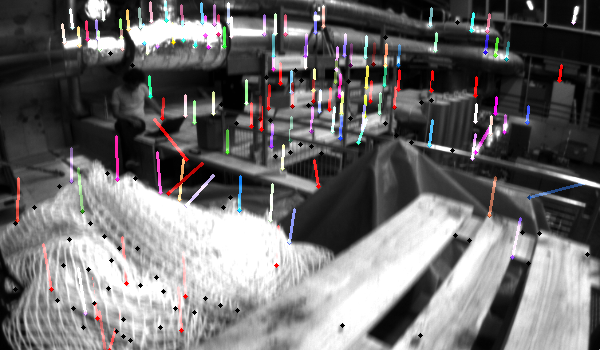
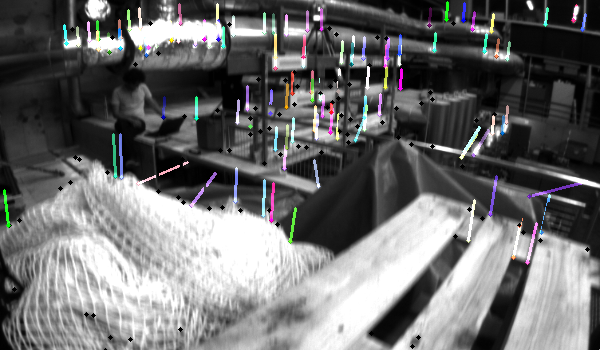
Fixed issue with no optimization

diff --git a/src/main.cpp b/src/main.cpp
@@ -21,6 +21,7 @@ using namespace std;
 using namespace gtsam;
 
 typedef std::vector<std::tuple<gtsam::Point2, int>> TrackedFeatures;
+typedef SmartProjectionPoseFactor<gtsam::Cal3_S2> SmartFactor;
 
 void initialize(NonlinearFactorGraph &graph, PreintegratedCombinedMeasurements *&preint, Values &values)
 {
@@ -151,26 +152,26 @@ void process_smart_features(
     TrackedFeatures & features_f1,
     TrackedFeatures & features_f2)
 {
-    unordered_map<int, gtsam::SmartProjectionPoseFactor<gtsam::Cal3_S2>> measurement_smart_lookup_left;
+    unordered_map<int, SmartFactor::shared_ptr> measurement_smart_lookup_left;
 
     // Sofiya: First frame's features. All features should be new
     for (int i = 0; i < features_f1.size(); i++)
     {
         // Create a smart factor for the new feature
-        noiseModel::Isotropic::shared_ptr measurement_noise = noiseModel::Isotropic::Sigma(2, SIGMA_CAMERA, true); // sigma_camera
+        noiseModel::Isotropic::shared_ptr measurement_noise = noiseModel::Isotropic::Sigma(2, 1.0, true); // sigma_camera
         gtsam::Cal3_S2 K = gtsam::Cal3_S2(FX, FY, S, CX, CY);
 
         // Note (frames): Transformation from camera frame to imu frame, i.e., pose of imu frame in camera frame
-        SmartProjectionPoseFactor<gtsam::Cal3_S2> factor = SmartProjectionPoseFactor<gtsam::Cal3_S2>(
+        SmartFactor::shared_ptr factor(new SmartFactor(
             measurement_noise,
             boost::make_shared<gtsam::Cal3_S2>(K), // calibration
-            boost::optional<gtsam::Pose3>(tbc)); // body_P_sensor
+            boost::optional<gtsam::Pose3>(tbc))); // body_P_sensor);
 
         int feature_id = std::get<1>(features_f1[i]);
         gtsam::Point2 point = std::get<0>(features_f1[i]);
 
         // Insert measurements to a smart factor
-        factor.add(point, gtsam::Symbol('x', 0));
+        factor->add(point, gtsam::Symbol('x', 0));
 
         // Add smart factor to FORSTER2 model
         graph.add(factor);
@@ -186,12 +187,17 @@ void process_smart_features(
 
         // Insert measurements to a smart factor
         auto factor = measurement_smart_lookup_left[feature_id];
-        factor.add(point, gtsam::Symbol('x', 1)); // Add measurement
+        factor->add(point, gtsam::Symbol('x', 1)); // Add measurement
     }
 }
 
 void optimize(ISAM2 & isam2, NonlinearFactorGraph & graph, Values & values)
 {
+    std::cout << "Initial values:";
+    values.print();
+    std::cout << "Graph: " << std::endl;
+    graph.print();
+
     // Perform smoothing update
     ISAM2Result result = isam2.update(graph, values);
     values = isam2.calculateEstimate();
@@ -201,7 +207,7 @@ std::tuple<TrackedFeatures, TrackedFeatures> optical_flow(cv::Mat &f1, cv::Mat &
 {
     // Good features to track
     vector<cv::Point2f> p1;
-    cv::goodFeaturesToTrack(f1, p1, 200, 0.01, 10, cv::Mat(), 3, false, 0.04);
+    cv::goodFeaturesToTrack(f1, p1, 200, 0.01, 7, cv::Mat(), 7, false, 0.04);
     TrackedFeatures features_f1;
     for (int i = 0; i < p1.size(); i++)
     {
